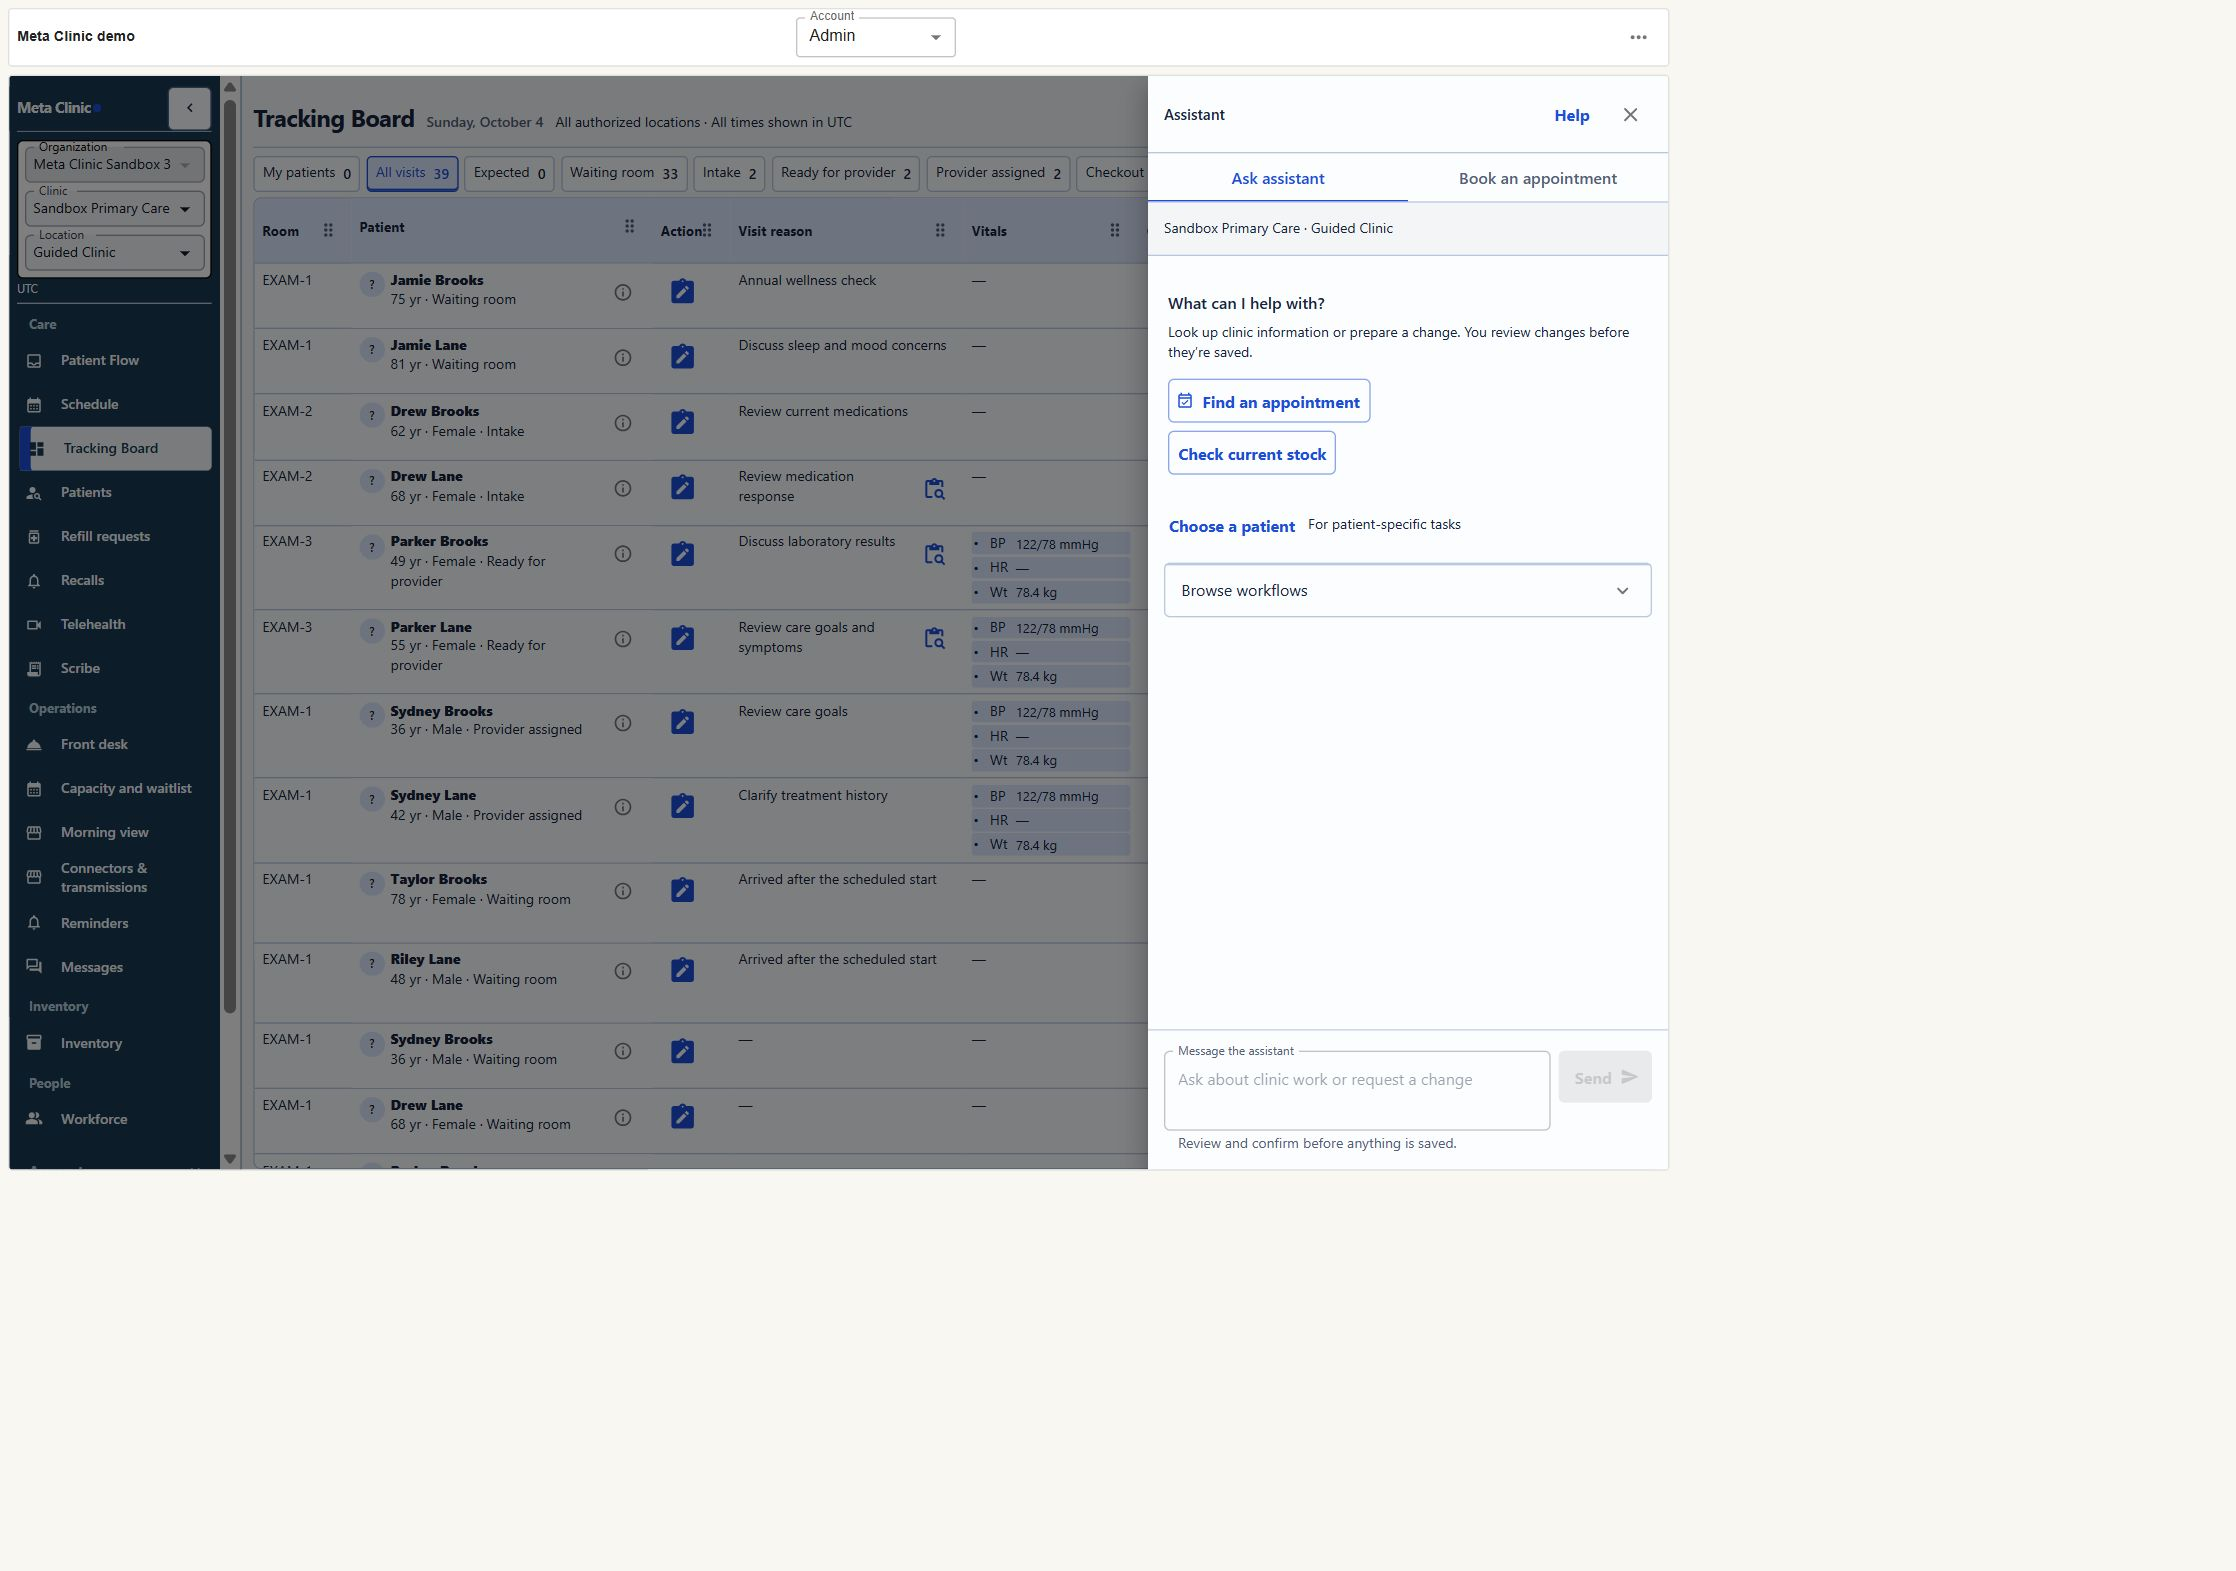
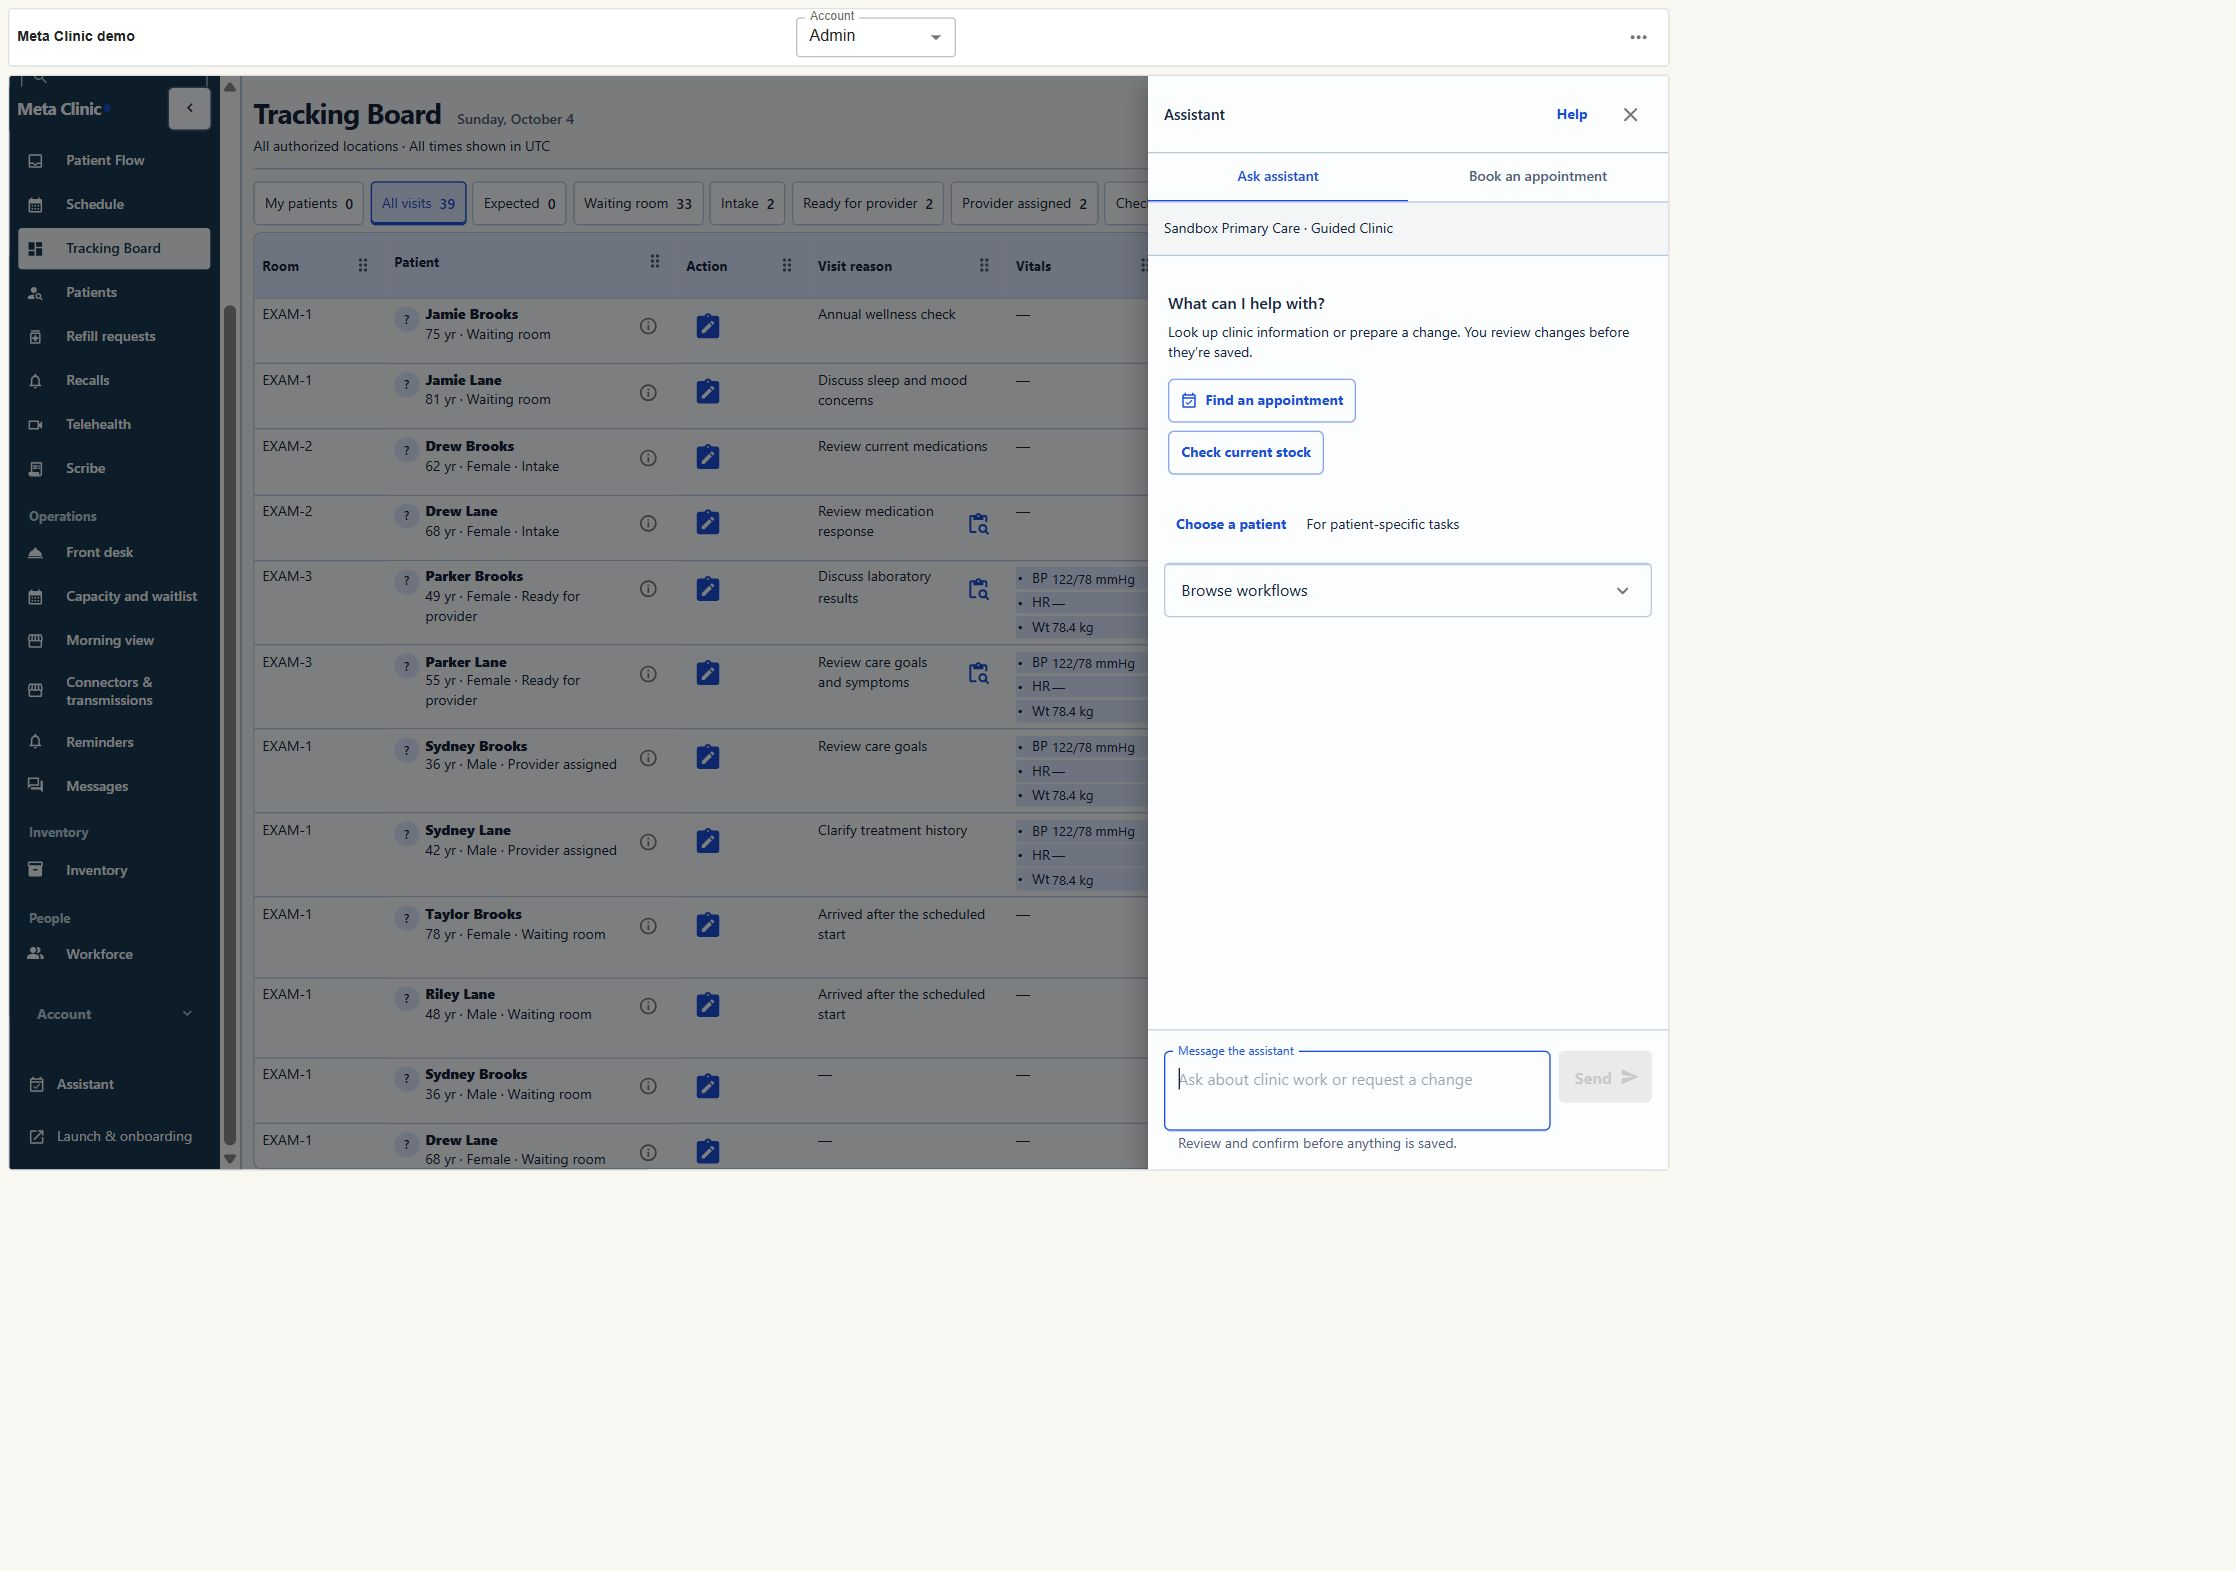
docs: record merged assistant repair verification

diff --git a/records/implementation/2026-10-04-assistant-loading-repair.md b/records/implementation/2026-10-04-assistant-loading-repair.md
@@ -19,6 +19,12 @@ Date: 2026-10-04. Synthetic local demo, web 3340/API 3341, branch
 
 ## Verification
 
+- Repair source `9a2b2446`; latest main `7c763942` integrated by `1b18a293`.
+  Merge preserved both progress histories and combined navigation-link closing
+  with the assistant entry button. The post-merge full web build passed and the
+  assistant opened and connected in the demo. `assistant-open.jpg` was refreshed
+  after integration; tablet evidence predates the unrelated main UI integration.
+
 - Full web build: TypeScript, primary Vite, Office Vite passed. Existing marketing
   dynamic-import warning remains. Final `pnpm exec tsc --noEmit` passed after the
   transport change. An initial command used a nonexistent `tsconfig.app.json`;
